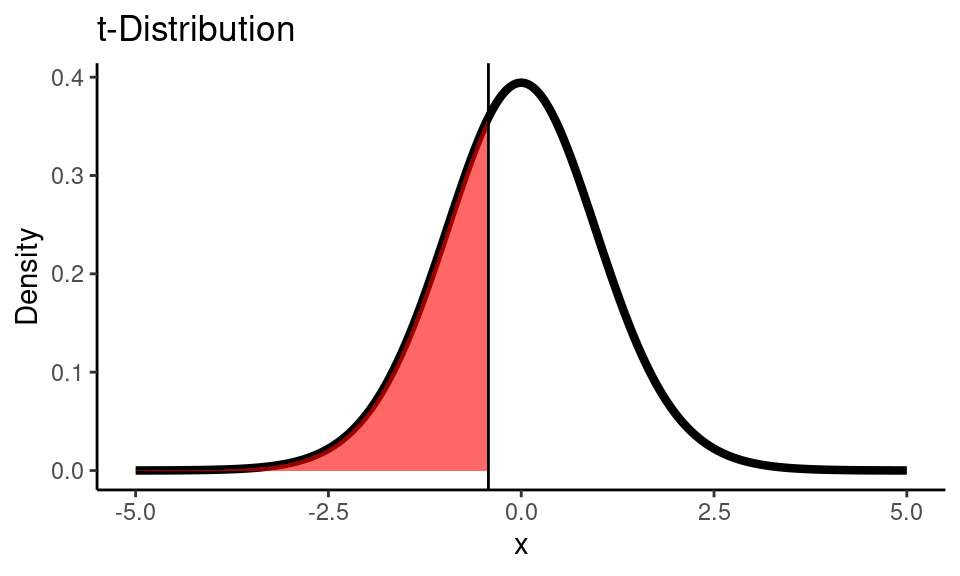
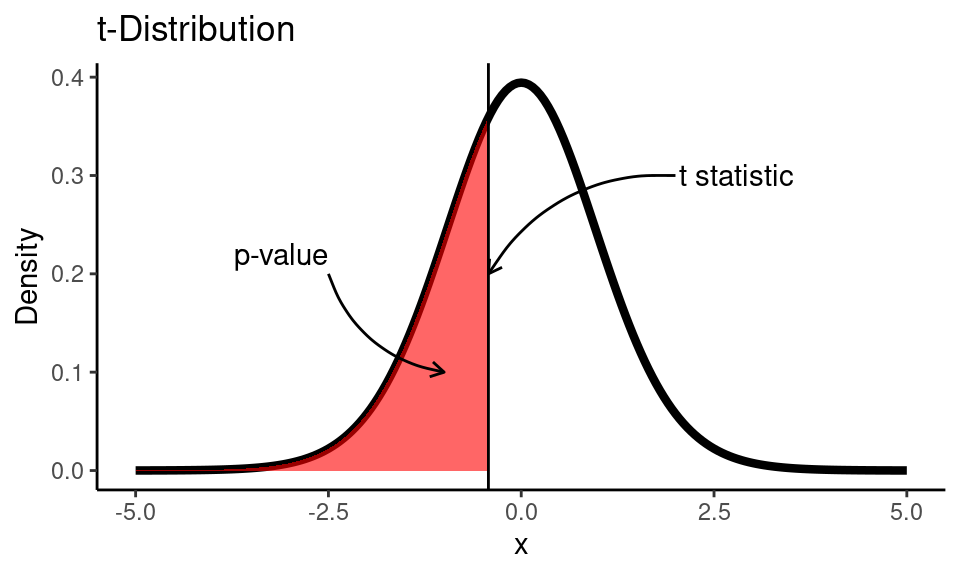
nhst plot annotations

diff --git a/content/post/nhst-pt1/index.html b/content/post/nhst-pt1/index.html
@@ -370,59 +370,59 @@ sample_n(islander_data, 5) %&gt;% kable()</code></pre>
 </thead>
 <tbody>
 <tr class="odd">
-<td align="left">Lukas</td>
-<td align="left">Castro</td>
-<td align="right">80</td>
-<td align="left">S</td>
-<td align="right">3</td>
-<td align="left">T</td>
-<td align="right">58.4</td>
-<td align="right">63.6</td>
-<td align="right">5.2</td>
-</tr>
-<tr class="even">
-<td align="left">Liam</td>
-<td align="left">Carrasco</td>
-<td align="right">37</td>
-<td align="left">S</td>
-<td align="right">1</td>
-<td align="left">A</td>
-<td align="right">66.4</td>
-<td align="right">58.1</td>
-<td align="right">-8.3</td>
-</tr>
-<tr class="odd">
-<td align="left">Rok</td>
-<td align="left">Hajek</td>
-<td align="right">48</td>
+<td align="left">Felipe</td>
+<td align="left">Takahashi</td>
+<td align="right">28</td>
 <td align="left">H</td>
 <td align="right">2</td>
-<td align="left">S</td>
-<td align="right">48.3</td>
-<td align="right">47.0</td>
-<td align="right">-1.3</td>
+<td align="left">A</td>
+<td align="right">60.9</td>
+<td align="right">64.9</td>
+<td align="right">4.0</td>
 </tr>
 <tr class="even">
-<td align="left">Grace</td>
-<td align="left">Kennedy</td>
-<td align="right">26</td>
-<td align="left">H</td>
+<td align="left">Holly</td>
+<td align="left">Carrasco</td>
+<td align="right">50</td>
+<td align="left">S</td>
 <td align="right">1</td>
 <td align="left">A</td>
-<td align="right">85.6</td>
-<td align="right">84.3</td>
-<td align="right">-1.3</td>
+<td align="right">51.7</td>
+<td align="right">51.2</td>
+<td align="right">-0.5</td>
 </tr>
 <tr class="odd">
-<td align="left">Marianne</td>
-<td align="left">Connolly</td>
-<td align="right">51</td>
+<td align="left">Tatsuya</td>
+<td align="left">Gonzalez</td>
+<td align="right">52</td>
 <td align="left">H</td>
 <td align="right">1</td>
 <td align="left">S</td>
-<td align="right">49.3</td>
-<td align="right">56.7</td>
-<td align="right">7.4</td>
+<td align="right">65.1</td>
+<td align="right">61.5</td>
+<td align="right">-3.6</td>
+</tr>
+<tr class="even">
+<td align="left">Dylan</td>
+<td align="left">Carrasco</td>
+<td align="right">83</td>
+<td align="left">H</td>
+<td align="right">2</td>
+<td align="left">T</td>
+<td align="right">44.2</td>
+<td align="right">44.5</td>
+<td align="right">0.3</td>
+</tr>
+<tr class="odd">
+<td align="left">Nina</td>
+<td align="left">Steiner</td>
+<td align="right">51</td>
+<td align="left">H</td>
+<td align="right">2</td>
+<td align="left">A</td>
+<td align="right">46.5</td>
+<td align="right">50.8</td>
+<td align="right">4.3</td>
 </tr>
 </tbody>
 </table>
@@ -433,7 +433,7 @@ sample_n(islander_data, 5) %&gt;% kable()</code></pre>
 <p>As the name of the test suggests, we are going to look at a single mean and whether it’s significantly different from the null value.</p>
 <p>However, in order to perform <span class="math inline">\(t\)</span>-test couple of conditions need to be met:</p>
 <ol style="list-style-type: decimal">
-<li><strong>Independence</strong>: sampled observations need to be independent (for example, it would be a bad idea to include relatives like parents-children for a Memory Test expriment, since results can be affected by inheritance).</li>
+<li><strong>Independence</strong>: sampled observations need to be independent (for example, it would be a bad idea to include relatives like parents-children for a Memory Test experiment, since results can be affected by inheritance).</li>
 <li><strong>Randomness</strong>: probability of occurrence of each observation in a sample is equally likely (for example, it the population of interest is islanders, men and women should have equal chances to be added to the experiment).</li>
 <li><strong>Approximate Normality</strong>. The sample distribution size needs to be approximately normal, especially if the sample size is not large enough <span class="math inline">\((\geq30)\)</span> for Central Limit Theorem<a href="#fn4" class="footnote-ref" id="fnref4"><sup>4</sup></a>.</li>
 </ol>
@@ -516,6 +516,14 @@ ggplot() +
     fill=&quot;red&quot;, alpha=0.6) +
   labs(title = &quot;t-Distribution&quot;,
        y = &quot;Density&quot;) +
+  annotate(
+    geom = &quot;curve&quot;, x = 2, y = 0.3, xend = t_stat, yend = 0.2, 
+    curvature = .3, arrow = arrow(length = unit(2, &quot;mm&quot;))) +
+  annotate(geom = &quot;text&quot;, x = 2.05, y = 0.3, label = &quot;t statistic&quot;, hjust = &quot;left&quot;) +
+  annotate(
+    geom = &quot;curve&quot;, x = -2.5, y = 0.2, xend = -1, yend = 0.1, 
+    curvature = .3, arrow = arrow(length = unit(2, &quot;mm&quot;))) +
+  annotate(geom = &quot;text&quot;, x = -2.5, y = 0.22, label = &quot;p-value&quot;, hjust = &quot;top&quot;) +
   theme_classic()</code></pre>
 </p>
 </details>
@@ -529,7 +537,48 @@ nhst_result(pval, alpha)
 <blockquote>
 <p>As we can see, we failed to reject the null hypothesis, or in other words, there is not enough evidence to claim that the average time to finish a memory test after 1mg of Alprazolam is less than 60 seconds.</p>
 </blockquote>
-<p>Alternatively, we can let R and Python do the calculations for us:</p>
+<p>But would you be still be able to get conclusion of the test without software, if you did all the calculations by hand? The answer is “definetely yes”. When you have calculated <span class="math inline">\(t_\text{stat}\)</span> (which was -0.4255 in our example) you could compare this value to <span class="math inline">\(t_\text{critical}\)</span>. <span class="math inline">\(t_\text{critical}\)</span> is the <span class="math inline">\(\alpha\)</span> (for one-tailed test) or <span class="math inline">\(\alpha/2\)</span> (for two-tailed test) quantile of <span class="math inline">\(t\)</span>-distribution, that can be easily found in any of t-tables.</p>
+<p>We need to find a value of <span class="math inline">\(t_\text{critical}\)</span> creates an area of 0.05 (our <span class="math inline">\(\alpha\)</span> level) under the curve for a <span class="math inline">\(t\)</span> distribution with 22 degrees of freedom:</p>
+<center>
+<img src="ttable.jpg" width="400"></img>
+</center>
+<pre class="r"><code>(t_crit &lt;- qt(alpha, df))</code></pre>
+<pre><code>## [1] -1.717</code></pre>
+<details>
+<summary>Code</summary>
+<p>
+<pre class="r"><code>df &lt;- n-1
+x &lt;- seq(-5,5,0.05)
+t_dist &lt;- dt(x, df)
+
+ggplot() +
+  geom_line(
+    mapping = aes(x = x, y = t_dist),
+    color = &quot;black&quot;, size = 1.5) +   
+  geom_vline(xintercept = t_stat) +
+  geom_vline(xintercept = t_crit, color = &quot;red&quot;) +
+  labs(title = &quot;t-Distribution&quot;,
+       y = &quot;Density&quot;) +
+  annotate(
+    geom = &quot;curve&quot;, x = 2, y = 0.3, xend = t_stat, yend = 0.2, 
+    curvature = .3, arrow = arrow(length = unit(2, &quot;mm&quot;))) +
+  annotate(geom = &quot;text&quot;, x = 2.05, y = 0.3, label = &quot;t statistic&quot;, hjust = &quot;left&quot;) +
+  annotate(
+    geom = &quot;curve&quot;, x = -4, y = 0.3, xend = t_crit, yend = 0.2, 
+    curvature = .3, arrow = arrow(length = unit(2, &quot;mm&quot;))) +
+  annotate(geom = &quot;text&quot;, x = -4.05, y = 0.3, label = &quot;t ctitical&quot;, hjust = &quot;right&quot;) +
+  geom_area(
+    mapping = aes(x = x[x &lt;= t_stat], y = t_dist[x &lt;= t_stat]),
+    fill=&quot;red&quot;, alpha=0.6) +
+  geom_area(
+    mapping = aes(x = x[x &lt;= t_crit], y = t_dist[x &lt;= t_crit]),
+    fill=&quot;blue&quot;, alpha=0.6) +
+  theme_classic() </code></pre>
+</p>
+</details>
+<p><img src="/post/nhst-pt1/index_files/figure-html/unnamed-chunk-16-1.png" width="480" style="display: block; margin: auto;" /></p>
+<p>If out calculated <span class="math inline">\(t\)</span> statistic (black line) would be on the left side from ctitical <span class="math inline">\(t\)</span> value (red line) we would reject the null hypothesis, since we would be sure that p-value (red area) is &lt; 0.05. Here we see that our <span class="math inline">\(t\)</span> statistic is greater than <span class="math inline">\(t_\text{critical}\)</span>, so we fail to reject the null hypothesis. It’s always a good idea to draw a test distribution.</p>
+<p>Alternatively, we can let R and Python do all the calculations for us:</p>
 <details>
 <summary><strong>R</strong></summary>
 <p>
@@ -592,7 +641,7 @@ print(f&quot;Calculated test statistic: {t_stat: .4f}\np-value: {p_val/2: .4f}&q
   theme_classic()</code></pre>
 </p>
 </details>
-<p><img src="/post/nhst-pt1/index_files/figure-html/unnamed-chunk-17-1.png" width="480" style="display: block; margin: auto;" /></p>
+<p><img src="/post/nhst-pt1/index_files/figure-html/unnamed-chunk-20-1.png" width="480" style="display: block; margin: auto;" /></p>
 <p><strong>Summary statistics:</strong></p>
 <pre class="r"><code>islander_data %&gt;% 
   filter(Drug %in% c(&quot;A&quot;, &quot;S&quot;) &amp; Dosage == 3) %&gt;% 
@@ -733,7 +782,7 @@ ggplot() +
   theme_classic()</code></pre>
 </p>
 </details>
-<p><img src="/post/nhst-pt1/index_files/figure-html/unnamed-chunk-25-1.png" width="480" style="display: block; margin: auto;" /></p>
+<p><img src="/post/nhst-pt1/index_files/figure-html/unnamed-chunk-28-1.png" width="480" style="display: block; margin: auto;" /></p>
 <pre class="r"><code>pval &lt;- pt(-t_stat, df)*2
 print(paste0(&quot;p-value is: &quot;, round(pval, 3)))
 ## [1] &quot;p-value is: 0.001&quot;
@@ -801,7 +850,7 @@ print(f&quot;Calculated test statistic: {t_stat: .4f}\np-value: {p_val: .5f}&quo
 hist(temp_df$Diff, 
      main = &quot;Distribution of Difference of Memory Test Results\nbefore and after 0.75mg of Triazolam&quot;,
      xlab = &quot;Average time to finish a memory test&quot;)</code></pre>
-<p><img src="/post/nhst-pt1/index_files/figure-html/unnamed-chunk-29-1.png" width="576" style="display: block; margin: auto;" /></p>
+<p><img src="/post/nhst-pt1/index_files/figure-html/unnamed-chunk-32-1.png" width="576" style="display: block; margin: auto;" /></p>
 <p>There are two outliers (difference in test results is less than <span class="math inline">\(-20\)</span>) that need to be removed for further analysis:</p>
 <pre class="r"><code>temp_df[temp_df$Diff &lt; -20, ] %&gt;% kable()</code></pre>
 <table>
@@ -937,7 +986,7 @@ ggplot() +
   theme_classic()</code></pre>
 </p>
 </details>
-<p><img src="/post/nhst-pt1/index_files/figure-html/unnamed-chunk-36-1.png" width="480" style="display: block; margin: auto;" /></p>
+<p><img src="/post/nhst-pt1/index_files/figure-html/unnamed-chunk-39-1.png" width="480" style="display: block; margin: auto;" /></p>
 <blockquote>
 <p>p-value is 0.8, which is greater than <span class="math inline">\(\alpha\)</span>, that’s why failed to reject null hypothesis. In other words, there is not enough evidence to claim that there is a difference in memory test results before and after 0.75mg of Triazolam.</p>
 </blockquote>
@@ -977,7 +1026,7 @@ ggplot() +
   theme_classic()</code></pre>
 </p>
 </details>
-<p><img src="/post/nhst-pt1/index_files/figure-html/unnamed-chunk-38-1.png" width="480" style="display: block; margin: auto;" /></p>
+<p><img src="/post/nhst-pt1/index_files/figure-html/unnamed-chunk-41-1.png" width="480" style="display: block; margin: auto;" /></p>
 <p>There are some outliers that need to be removed for further analysis:</p>
 <pre class="r"><code>islander_data %&gt;% 
   filter(Drug == &quot;T&quot; &amp; (Diff &lt; -15 | Diff &gt; 15)) %&gt;% 
@@ -1224,7 +1273,7 @@ ggplot() +
   theme_classic()</code></pre>
 </p>
 </details>
-<p><img src="/post/nhst-pt1/index_files/figure-html/unnamed-chunk-46-1.png" width="480" style="display: block; margin: auto;" /></p>
+<p><img src="/post/nhst-pt1/index_files/figure-html/unnamed-chunk-49-1.png" width="480" style="display: block; margin: auto;" /></p>
 <pre class="r"><code>pval &lt;- pf(F_stat, df_group, df_error, lower.tail = FALSE)
 print(paste0(&quot;p-value is: &quot;, round(pval, 3)))
 ## [1] &quot;p-value is: 0.603&quot;
